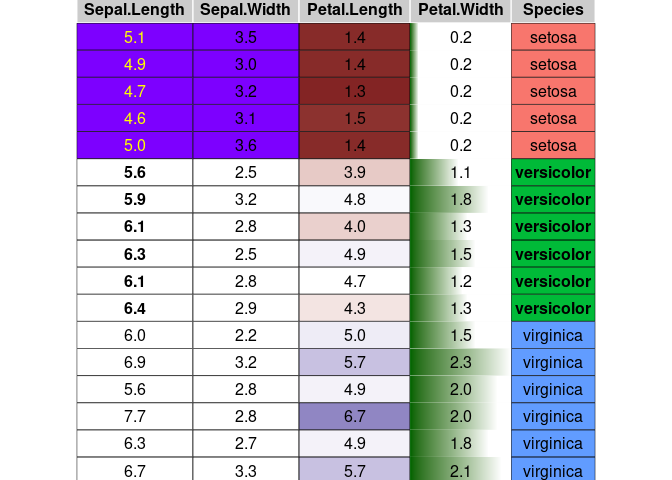
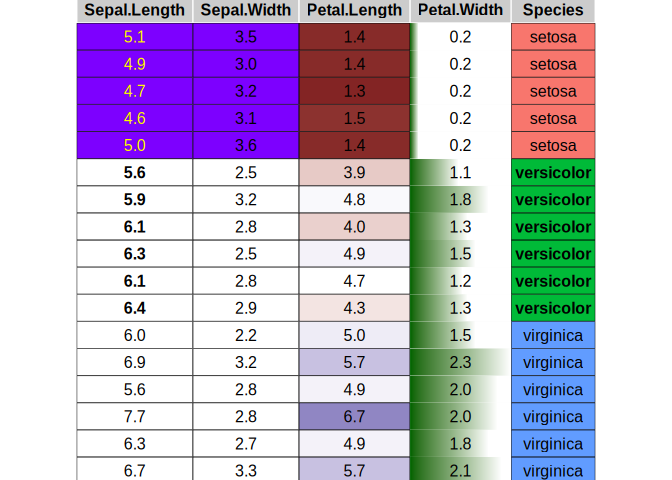
Deploying to gh-pages from @ zeehio/condformat@13b2e9ec29fa6850e7cb9495d1b2a0e07681c237 🚀

diff --git a/index.html b/index.html
@@ -80,7 +80,7 @@
 <div class="section level1">
 <div class="page-header"><h1 id="introduction-to-condformat">Introduction to condformat<a class="anchor" aria-label="anchor" href="#introduction-to-condformat"></a>
 </h1></div>
-<p>Sergio Oller 2023-10-08</p>
+<p>Sergio Oller 2026-07-09</p>
 <!-- README.md is generated from README.Rmd. Please edit that file -->
 <p>condformat renders a data frame in which cells in columns are formatted according to several rules or criteria.</p>
 <!-- badges: start -->
@@ -122,17 +122,17 @@
 <div class="sourceCode" id="cb3"><pre class="downlit sourceCode r">
 <code class="sourceCode R"><span><span class="fu"><a href="https://rdrr.io/r/utils/data.html" class="external-link">data</a></span><span class="op">(</span><span class="va">iris</span><span class="op">)</span></span>
 <span><span class="kw"><a href="https://rdrr.io/r/base/library.html" class="external-link">library</a></span><span class="op">(</span><span class="va"><a href="https://zeehio.github.io/condformat/">condformat</a></span><span class="op">)</span></span>
-<span><span class="fu"><a href="reference/condformat.html">condformat</a></span><span class="op">(</span><span class="va">iris</span><span class="op">[</span><span class="fu"><a href="https://rdrr.io/r/base/c.html" class="external-link">c</a></span><span class="op">(</span><span class="fl">1</span><span class="op">:</span><span class="fl">5</span>,<span class="fl">70</span><span class="op">:</span><span class="fl">75</span>, <span class="fl">120</span><span class="op">:</span><span class="fl">125</span><span class="op">)</span>,<span class="op">]</span><span class="op">)</span> <span class="op">%&gt;%</span></span>
-<span>  <span class="fu"><a href="reference/rule_fill_discrete.html">rule_fill_discrete</a></span><span class="op">(</span><span class="va">Species</span><span class="op">)</span> <span class="op">%&gt;%</span></span>
+<span><span class="fu"><a href="reference/condformat.html">condformat</a></span><span class="op">(</span><span class="va">iris</span><span class="op">[</span><span class="fu"><a href="https://rdrr.io/r/base/c.html" class="external-link">c</a></span><span class="op">(</span><span class="fl">1</span><span class="op">:</span><span class="fl">5</span>,<span class="fl">70</span><span class="op">:</span><span class="fl">75</span>, <span class="fl">120</span><span class="op">:</span><span class="fl">125</span><span class="op">)</span>,<span class="op">]</span><span class="op">)</span> <span class="op">|&gt;</span></span>
+<span>  <span class="fu"><a href="reference/rule_fill_discrete.html">rule_fill_discrete</a></span><span class="op">(</span><span class="va">Species</span><span class="op">)</span> <span class="op">|&gt;</span></span>
 <span>  <span class="fu"><a href="reference/rule_fill_discrete.html">rule_fill_discrete</a></span><span class="op">(</span><span class="fu"><a href="https://rdrr.io/r/base/c.html" class="external-link">c</a></span><span class="op">(</span><span class="va">Sepal.Width</span>, <span class="va">Sepal.Length</span><span class="op">)</span>,</span>
 <span>                     expression <span class="op">=</span> <span class="va">Sepal.Width</span> <span class="op">&gt;</span> <span class="va">Sepal.Length</span> <span class="op">-</span> <span class="fl">2.25</span>,</span>
-<span>                     colours <span class="op">=</span> <span class="fu"><a href="https://rdrr.io/r/base/c.html" class="external-link">c</a></span><span class="op">(</span><span class="st">"TRUE"</span> <span class="op">=</span> <span class="st">"#7D00FF"</span><span class="op">)</span><span class="op">)</span> <span class="op">%&gt;%</span></span>
-<span>  <span class="fu"><a href="reference/rule_fill_gradient2.html">rule_fill_gradient2</a></span><span class="op">(</span><span class="va">Petal.Length</span><span class="op">)</span> <span class="op">%&gt;%</span></span>
-<span>  <span class="fu"><a href="reference/rule_text_bold.html">rule_text_bold</a></span><span class="op">(</span><span class="fu"><a href="https://rdrr.io/r/base/c.html" class="external-link">c</a></span><span class="op">(</span><span class="va">Sepal.Length</span>, <span class="va">Species</span><span class="op">)</span>, <span class="va">Species</span> <span class="op">==</span> <span class="st">"versicolor"</span><span class="op">)</span> <span class="op">%&gt;%</span></span>
+<span>                     colours <span class="op">=</span> <span class="fu"><a href="https://rdrr.io/r/base/c.html" class="external-link">c</a></span><span class="op">(</span><span class="st">"TRUE"</span> <span class="op">=</span> <span class="st">"#7D00FF"</span><span class="op">)</span><span class="op">)</span> <span class="op">|&gt;</span></span>
+<span>  <span class="fu"><a href="reference/rule_fill_gradient2.html">rule_fill_gradient2</a></span><span class="op">(</span><span class="va">Petal.Length</span><span class="op">)</span> <span class="op">|&gt;</span></span>
+<span>  <span class="fu"><a href="reference/rule_text_bold.html">rule_text_bold</a></span><span class="op">(</span><span class="fu"><a href="https://rdrr.io/r/base/c.html" class="external-link">c</a></span><span class="op">(</span><span class="va">Sepal.Length</span>, <span class="va">Species</span><span class="op">)</span>, <span class="va">Species</span> <span class="op">==</span> <span class="st">"versicolor"</span><span class="op">)</span> <span class="op">|&gt;</span></span>
 <span>  <span class="fu"><a href="reference/rule_text_color.html">rule_text_color</a></span><span class="op">(</span><span class="va">Sepal.Length</span>,</span>
-<span>                  expression <span class="op">=</span> <span class="fu"><a href="https://rdrr.io/r/base/ifelse.html" class="external-link">ifelse</a></span><span class="op">(</span><span class="va">Species</span> <span class="op">==</span> <span class="st">"setosa"</span>, <span class="st">"yellow"</span>, <span class="st">""</span><span class="op">)</span><span class="op">)</span> <span class="op">%&gt;%</span></span>
-<span>  <span class="fu"><a href="reference/rule_fill_bar.html">rule_fill_bar</a></span><span class="op">(</span><span class="va">Petal.Width</span>, limits <span class="op">=</span> <span class="fu"><a href="https://rdrr.io/r/base/c.html" class="external-link">c</a></span><span class="op">(</span><span class="fl">0</span>, <span class="cn">NA</span><span class="op">)</span><span class="op">)</span> <span class="op">%&gt;%</span></span>
-<span>  <span class="fu"><a href="reference/theme_grob.html">theme_grob</a></span><span class="op">(</span>rows <span class="op">=</span> <span class="cn">NULL</span><span class="op">)</span> <span class="op">%&gt;%</span></span>
+<span>                  expression <span class="op">=</span> <span class="fu"><a href="https://rdrr.io/r/base/ifelse.html" class="external-link">ifelse</a></span><span class="op">(</span><span class="va">Species</span> <span class="op">==</span> <span class="st">"setosa"</span>, <span class="st">"yellow"</span>, <span class="st">""</span><span class="op">)</span><span class="op">)</span> <span class="op">|&gt;</span></span>
+<span>  <span class="fu"><a href="reference/rule_fill_bar.html">rule_fill_bar</a></span><span class="op">(</span><span class="va">Petal.Width</span>, limits <span class="op">=</span> <span class="fu"><a href="https://rdrr.io/r/base/c.html" class="external-link">c</a></span><span class="op">(</span><span class="fl">0</span>, <span class="cn">NA</span><span class="op">)</span><span class="op">)</span> <span class="op">|&gt;</span></span>
+<span>  <span class="fu"><a href="reference/theme_grob.html">theme_grob</a></span><span class="op">(</span>rows <span class="op">=</span> <span class="cn">NULL</span><span class="op">)</span> <span class="op">|&gt;</span></span>
 <span>  <span class="fu"><a href="reference/condformat2grob.html">condformat2grob</a></span><span class="op">(</span><span class="op">)</span></span></code></pre></div>
 <p><img src="reference/figures/README-fig-example-1.png"><!-- --></p>
 <p>This example covers most of the condformat rules.</p>
@@ -189,7 +189,7 @@
 <td align="center">X</td>
 <td align="center"></td>
 <td align="center">X</td>
-<td align="center"></td>
+<td align="center">X¹</td>
 </tr>
 <tr>
 <td><code>rule_css</code></td>
@@ -200,6 +200,7 @@
 </tr>
 </tbody>
 </table>
+<p>¹ In Excel, <code><a href="reference/rule_fill_bar.html">rule_fill_bar()</a></code> is rendered as a native data bar and only supports the default <code>expression</code> (<code>.col</code>); a custom <code>expression</code> falls back to applying just the <code>background</code>/<code>na.value</code> cell colours.</p>
 </div>
 </div>
   </div>

diff --git a/reference/rule_fill_bar.html b/reference/rule_fill_bar.html
@@ -129,6 +129,19 @@ that column alone). If omitted, it defaults to <code>.col</code>.</p></dd>
     <h2>Value</h2>
     <p>The condformat_tbl object, with the added formatting information</p>
     </div>
+    <div id="details">
+    <h2>Details</h2>
+    <p>In Excel output (<code><a href="condformat2excel.html">condformat2excel()</a></code>/<code><a href="condformat2excelsheet.html">condformat2excelsheet()</a></code>), this is
+rendered using Excel's own native data bar conditional formatting, coloured
+with <code>low</code> (<code>high</code>, <code>background</code> and <code>lockcells</code> don't apply to it, since
+Excel data bars are solid-coloured and are a workbook-level conditional
+formatting rule, not a per-cell style). This only happens when <code>expression</code>
+is left at its default (or explicitly <code>.col</code>): Excel data bars always
+reflect a cell's own displayed value against a range, so a custom
+<code>expression</code> (e.g. sizing one column's bar by another column's values)
+can't be replicated there and is skipped, with a warning; the cell's flat
+<code>background</code>/<code>na.value</code> colours are still applied in that case.</p>
+    </div>
     <div id="see-also">
     <h2>See also</h2>
     <div class="dont-index"><p>Other rule:

diff --git a/news/index.html b/news/index.html
@@ -69,7 +69,9 @@
 </ul></div>
 <div class="section level3">
 <h3 id="new-features-0-10-1-9000">New features<a class="anchor" aria-label="anchor" href="#new-features-0-10-1-9000"></a></h3>
-<ul><li>Export <code><a href="../reference/condformat2excelsheet.html">condformat2excelsheet()</a></code>, which writes a condformat table into a worksheet of an <code>openxlsx</code> workbook you’re already building, without creating or saving the workbook itself (closes <a href="https://github.com/zeehio/condformat/issues/25" class="external-link">#25</a>). Its docs show how to combine condformat’s own cell styling with your own <code><a href="https://rdrr.io/pkg/openxlsx/man/addStyle.html" class="external-link">openxlsx::addStyle()</a></code> calls (e.g. a number format) via <code>stack = TRUE</code>, since <code>addStyle()</code> replaces existing styles by default.</li>
+<ul><li>
+<code><a href="../reference/rule_fill_bar.html">rule_fill_bar()</a></code> is now supported in Excel output, rendered using Excel’s own native data bar conditional formatting (coloured with <code>low</code>) instead of being dropped with an “unsupported rule” warning. This only applies when <code>expression</code> is left at its default (or explicitly <code>.col</code>), since Excel data bars always reflect a cell’s own displayed value against a range and can’t replicate an arbitrary custom <code>expression</code>; in that case the data bar itself is skipped (with a warning) but the flat <code>background</code>/<code>na.value</code> cell colours are still applied, as before.</li>
+<li>Export <code><a href="../reference/condformat2excelsheet.html">condformat2excelsheet()</a></code>, which writes a condformat table into a worksheet of an <code>openxlsx</code> workbook you’re already building, without creating or saving the workbook itself (closes <a href="https://github.com/zeehio/condformat/issues/25" class="external-link">#25</a>). Its docs show how to combine condformat’s own cell styling with your own <code><a href="https://rdrr.io/pkg/openxlsx/man/addStyle.html" class="external-link">openxlsx::addStyle()</a></code> calls (e.g. a number format) via <code>stack = TRUE</code>, since <code>addStyle()</code> replaces existing styles by default.</li>
 <li>Add a <code>.col</code> pronoun usable in the <code>expression</code> argument of <code><a href="../reference/rule_fill_discrete.html">rule_fill_discrete()</a></code>, <code><a href="../reference/rule_fill_gradient.html">rule_fill_gradient()</a></code>, <code><a href="../reference/rule_fill_gradient2.html">rule_fill_gradient2()</a></code>, <code><a href="../reference/rule_fill_bar.html">rule_fill_bar()</a></code>, <code><a href="../reference/rule_text_bold.html">rule_text_bold()</a></code>, <code><a href="../reference/rule_text_color.html">rule_text_color()</a></code> and <code><a href="../reference/rule_css.html">rule_css()</a></code>. When <code>columns</code> selects more than one column, <code>.col</code> is bound to each column’s own values in turn, so a single rule call can format several columns based on each one’s own condition (closes <a href="https://github.com/zeehio/condformat/issues/19" class="external-link">#19</a>): <code>rule_fill_discrete(c(Sepal.Length, Sepal.Width), .col &gt; 3)</code> is now equivalent to chaining the rule once per column. <code>expression</code> now also defaults to <code>.col</code> when omitted, replacing the previous behaviour of silently using only the first selected column (with a warning) when no expression was given for a multi-column selection.</li>
 </ul></div>
 <div class="section level3">